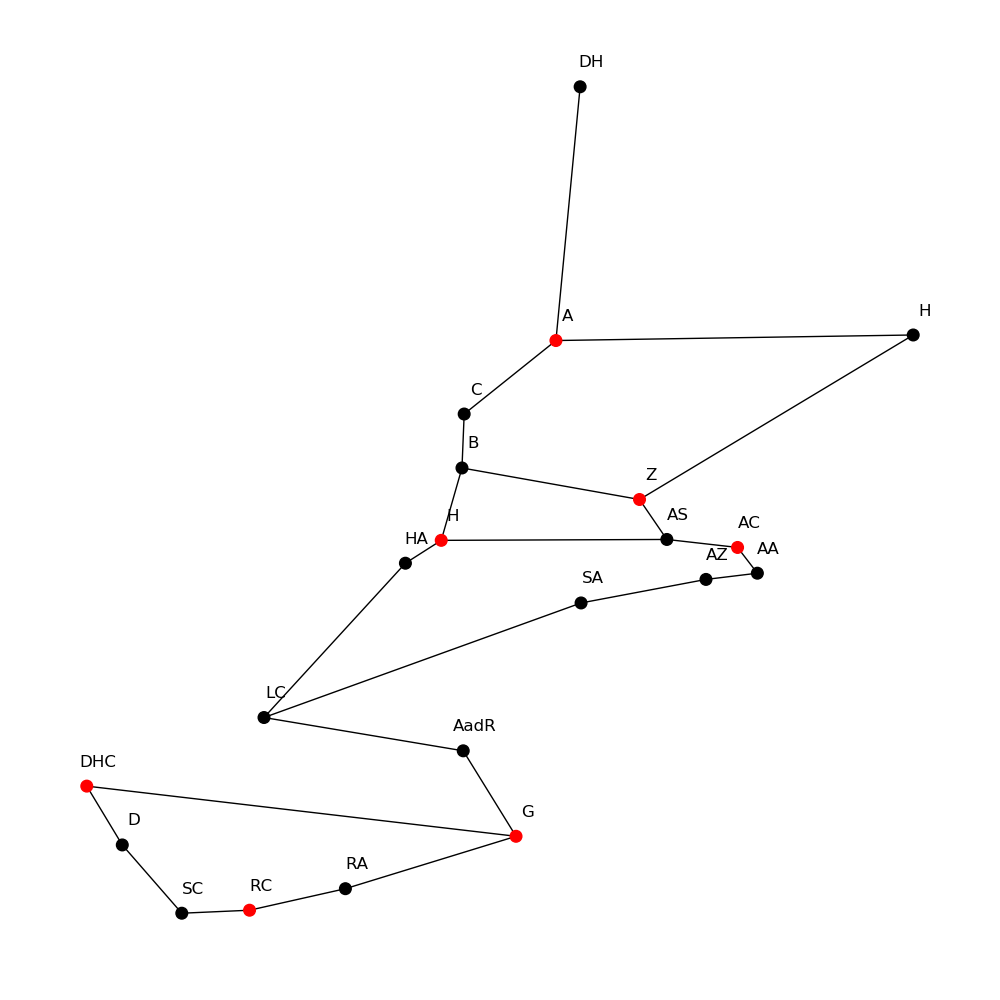
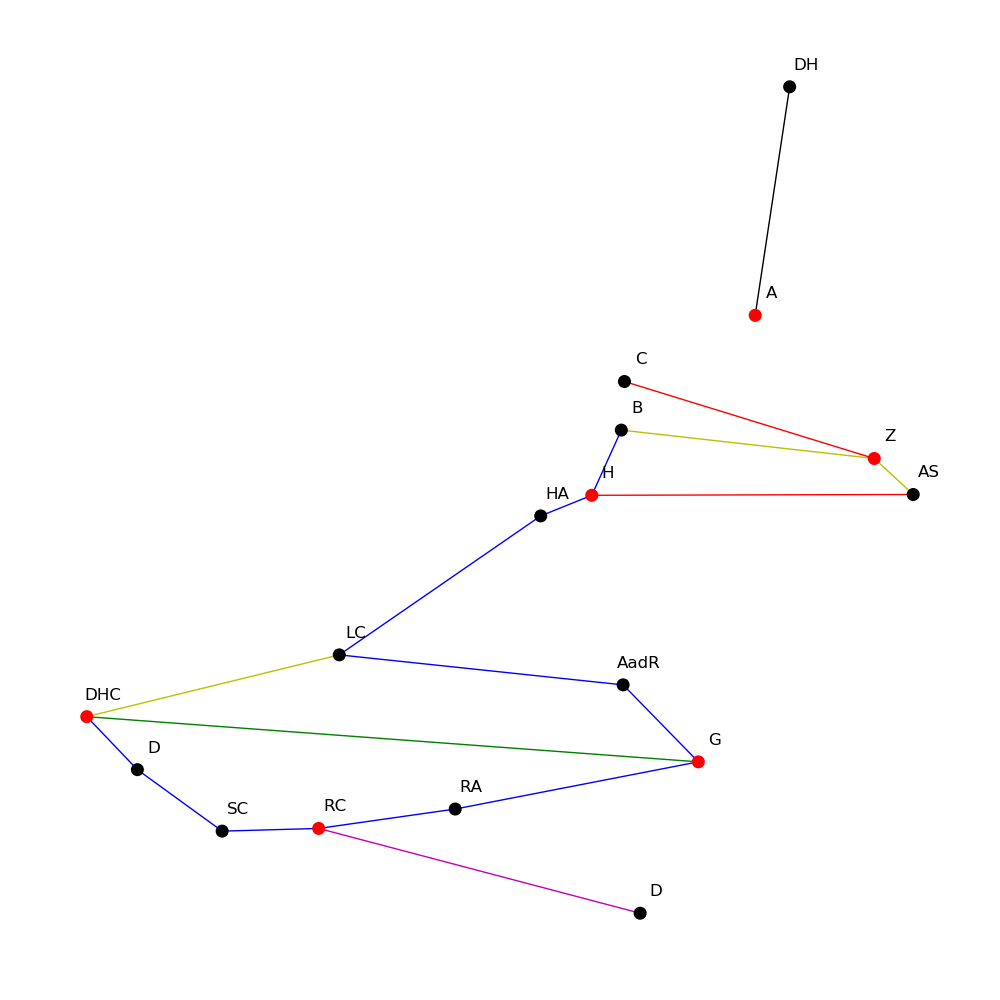
small changes

diff --git a/Klad/draw_traject.py b/Klad/draw_traject.py
@@ -36,12 +36,15 @@ def drawTraject(graph, trajecten):
                     afk = afk + i[0]
                 node_labels[station] = afk
 
-    # colors = ["r", "b", "g", "y", "m", "k", "w"]
+    colors = ["k", "b", "g", "y", "m", "r", "#ff69b4"]
     for i in range(len(trajecten)):
-        # colour = colors[i]
+        colour = colors[i]
         for j in range(len(trajecten[i][0])-1):
-            if (""+trajecten[i][0][j], "" + trajecten[i][0][j+1]) or (""+trajecten[i][0][j+1], "" + trajecten[i][0][j]) not in G.edges():
-                G.add_edge(""+trajecten[i][0][j], "" + trajecten[i][0][j+1])
+            if (""+trajecten[i][0][j], "" + trajecten[i][0][j+1]) and (""+trajecten[i][0][j+1], "" + trajecten[i][0][j]) not in G.edges():
+                G.add_edge(""+trajecten[i][0][j], "" + trajecten[i][0][j+1], color = colour)
+
+    edges = G.edges()
+    edge_color = [G[u][v]['color'] for u,v in edges]
 
     pos=nx.get_node_attributes(G,'pos')
     pos_higher = {}
@@ -51,6 +54,6 @@ def drawTraject(graph, trajecten):
         pos_higher[""+k] = (v[0]+x_off, v[1]+y_off)
 
     plt.figure(1, figsize = (10,10))
-    nx.draw(G, pos, node_color=node_color, node_size=70)
+    nx.draw(G, pos, node_color=node_color, edge_color = edge_color, node_size=70)
     nx.draw_networkx_labels(G, pos_higher, node_labels)
     plt.savefig("plot_traject.png")

diff --git a/PythonFunctions/simulatedAnnealing.py b/PythonFunctions/simulatedAnnealing.py
@@ -38,7 +38,7 @@ def SimulatedAnnealing(graph, pathsSelected, paths=[], bestScore=0, index=0):
             break
         # Calculate the new score and check if it is the best score.
         newScore = CalculateScore(newPathsSelected, graph.criticalConnections)
-        AnnealingScoresNew.write(str(newScore))
+        AnnealingScoresNew.write(repr(newScore) + "\n")
         if newScore > bestScore:
             bestScore = newScore
             pathsSelected = newPathsSelected
@@ -50,7 +50,7 @@ def SimulatedAnnealing(graph, pathsSelected, paths=[], bestScore=0, index=0):
             pathsSelected = newPathsSelected
             iteratie = 0
 
-        AnnealingScores.write(str(bestScore))
+        AnnealingScores.write(repr(bestScore)+"\n")
 
         # Replace a traject with the new random traject.
         newTraject = random.choice(pathsToChoose)

diff --git a/PythonFunctions/hillclimber.py b/PythonFunctions/hillclimber.py
@@ -29,7 +29,7 @@ def HillClimber(graph, pathsSelected, paths=[], bestScore=0, index=0):
 
 
     # Change a traject 1000 times and check if it is the best score.
-    for i in range(n-1):
+    for i in range(1000):
 
         # Calculate the new score and check if it is the best score.
         newScore = CalculateScore(newPathsSelected, graph.criticalConnections)
